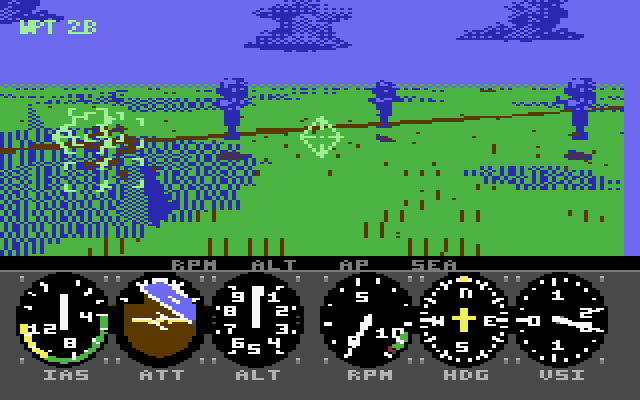
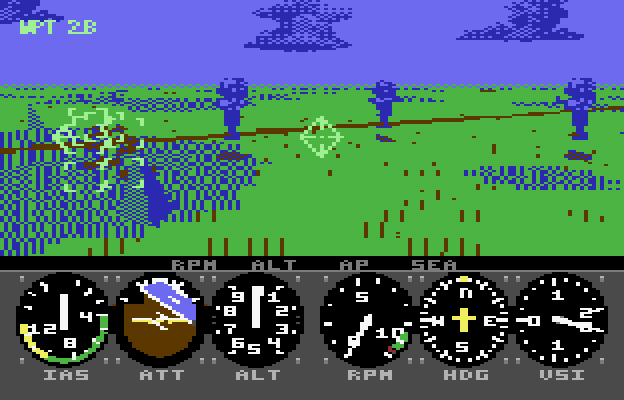
Screenshots without the hidden column 39
- docs/images: the README frames cropped to the 38-column window (624x400), dropping column 39,
  which the C64 never shows
- png::save_screen: frames are saved DRAWN_COLS wide; chopper frame, flight, wrecks, carrier and
  the cockpit panel use it, so new screenshots match the screen

diff --git a/src/main.rs b/src/main.rs
@@ -86,7 +86,7 @@ fn frame(args: &[String]) -> Result<(), String> {
     let mut rgb = m.decode(buf, COLORS[0]);
     let back = m.ram[chopper::hud::BACK as usize];
     chopper::hud::composite(&m, back, &mut rgb);
-    png::save_wide(&out.with_extension("png"), 160, &rgb)?;
+    png::save_screen(&out.with_extension("png"), &rgb)?;
     let mut bin = m.ram[buf.bitmap as usize..buf.bitmap as usize + 8000].to_vec();
     bin.extend_from_slice(&m.ram[buf.screen as usize..buf.screen as usize + 1000]);
     bin.extend(m.color_ram[..1000].iter().map(|c| c & 15));
@@ -169,7 +169,7 @@ fn flight(args: &[String]) -> Result<(), String> {
             let name = format!("t{tick:05}{tag}");
             let mut rgb = m.decode(BUFFERS[0], COLORS[0]);
             chopper::hud::composite(&m, m.ram[chopper::hud::BACK as usize], &mut rgb);
-            png::save_wide(&dir.join(format!("{name}.png")), 160, &rgb)?;
+            png::save_screen(&dir.join(format!("{name}.png")), &rgb)?;
             println!("{name}: {} lines, {} DMAs, {} I/O writes, {} runs ({} ground)", st.drawn_lines, st.dmas, st.io_writes, st.spans, st.ground_spans);
         }
     }
@@ -272,7 +272,7 @@ fn cockpit(args: &[String]) -> Result<(), String> {
     let a = chopper::agent::at(&reu, chopper::agent::LIFT + 3000);
     cockpit::update(&mut m, &a, &mut [0xFF; gauge::COUNT]);
     let px = m.decode(BUFFERS[0], COLORS[0]);
-    png::save_wide(&dir.join("panel.png"), 160, &px[cockpit::PANEL_ROW as usize * 8 * 160..])?;
+    png::save_screen(&dir.join("panel.png"), &px[cockpit::PANEL_ROW as usize * 8 * 160..])?;
     Ok(())
 }
 
@@ -495,7 +495,7 @@ fn wrecks(args: &[String]) -> Result<(), String> {
         let mut rgb = m.decode(BUFFERS[0], COLORS[0]);
         chopper::hud::composite(&m, m.ram[chopper::hud::BACK as usize], &mut rgb);
         let p = PathBuf::from(format!("{}-{age:02}s.png", out.display()));
-        png::save_wide(&p, 160, &rgb)?;
+        png::save_screen(&p, &rgb)?;
         println!("{}", p.display());
     }
     Ok(())
@@ -532,7 +532,7 @@ fn carrier_views(args: &[String]) -> Result<(), String> {
         let mut rgb = m.decode(BUFFERS[0], COLORS[0]);
         chopper::hud::composite(&m, m.ram[chopper::hud::BACK as usize], &mut rgb);
         let p = PathBuf::from(format!("output/carrier-{name}.png"));
-        png::save_wide(&p, 160, &rgb)?;
+        png::save_screen(&p, &rgb)?;
         println!("{}", p.display());
     }
     Ok(())

diff --git a/src/png.rs b/src/png.rs
@@ -67,3 +67,11 @@ pub fn save_wide(path: &Path, w: usize, px: &[[u8; 3]]) -> Result<(), String> {
     let wide: Vec<[u8; 3]> = px.iter().flat_map(|&p| [p, p]).collect();
     save(path, 2 * w as u32, (px.len() / w) as u32, &wide)
 }
+
+/// Save a 160-wide multicolor frame as the C64 shows it: without bitmap column 39, which the 38-column
+/// window always hides (`layout::DRAWN_COLS`).
+pub fn save_screen(path: &Path, px: &[[u8; 3]]) -> Result<(), String> {
+    let w = crate::layout::DRAWN_COLS as usize * 4;
+    let shown: Vec<[u8; 3]> = px.chunks(160).flat_map(|row| row[..w].iter().copied()).collect();
+    save_wide(path, w, &shown)
+}

diff --git a/src/tests.rs b/src/tests.rs
@@ -1406,7 +1406,7 @@ fn moving_objects_are_drawn_where_they_are() {
     let st = crate::package::render_floor(&mut m, BUFFERS[0], &scene, &cam, Lines::Full);
     let mut rgb = m.decode(BUFFERS[0], crate::format::COLORS[0]);
     crate::hud::composite(&m, 0, &mut rgb);
-    crate::png::save_wide(std::path::Path::new("output/m2/close.png"), 160, &rgb).unwrap();
+    crate::png::save_screen(std::path::Path::new("output/m2/close.png"), &rgb).unwrap();
     assert!(st.tris as u32 + st.dropped as u32 > st.geom.tris as u32, "{st:?}");
 }
 
